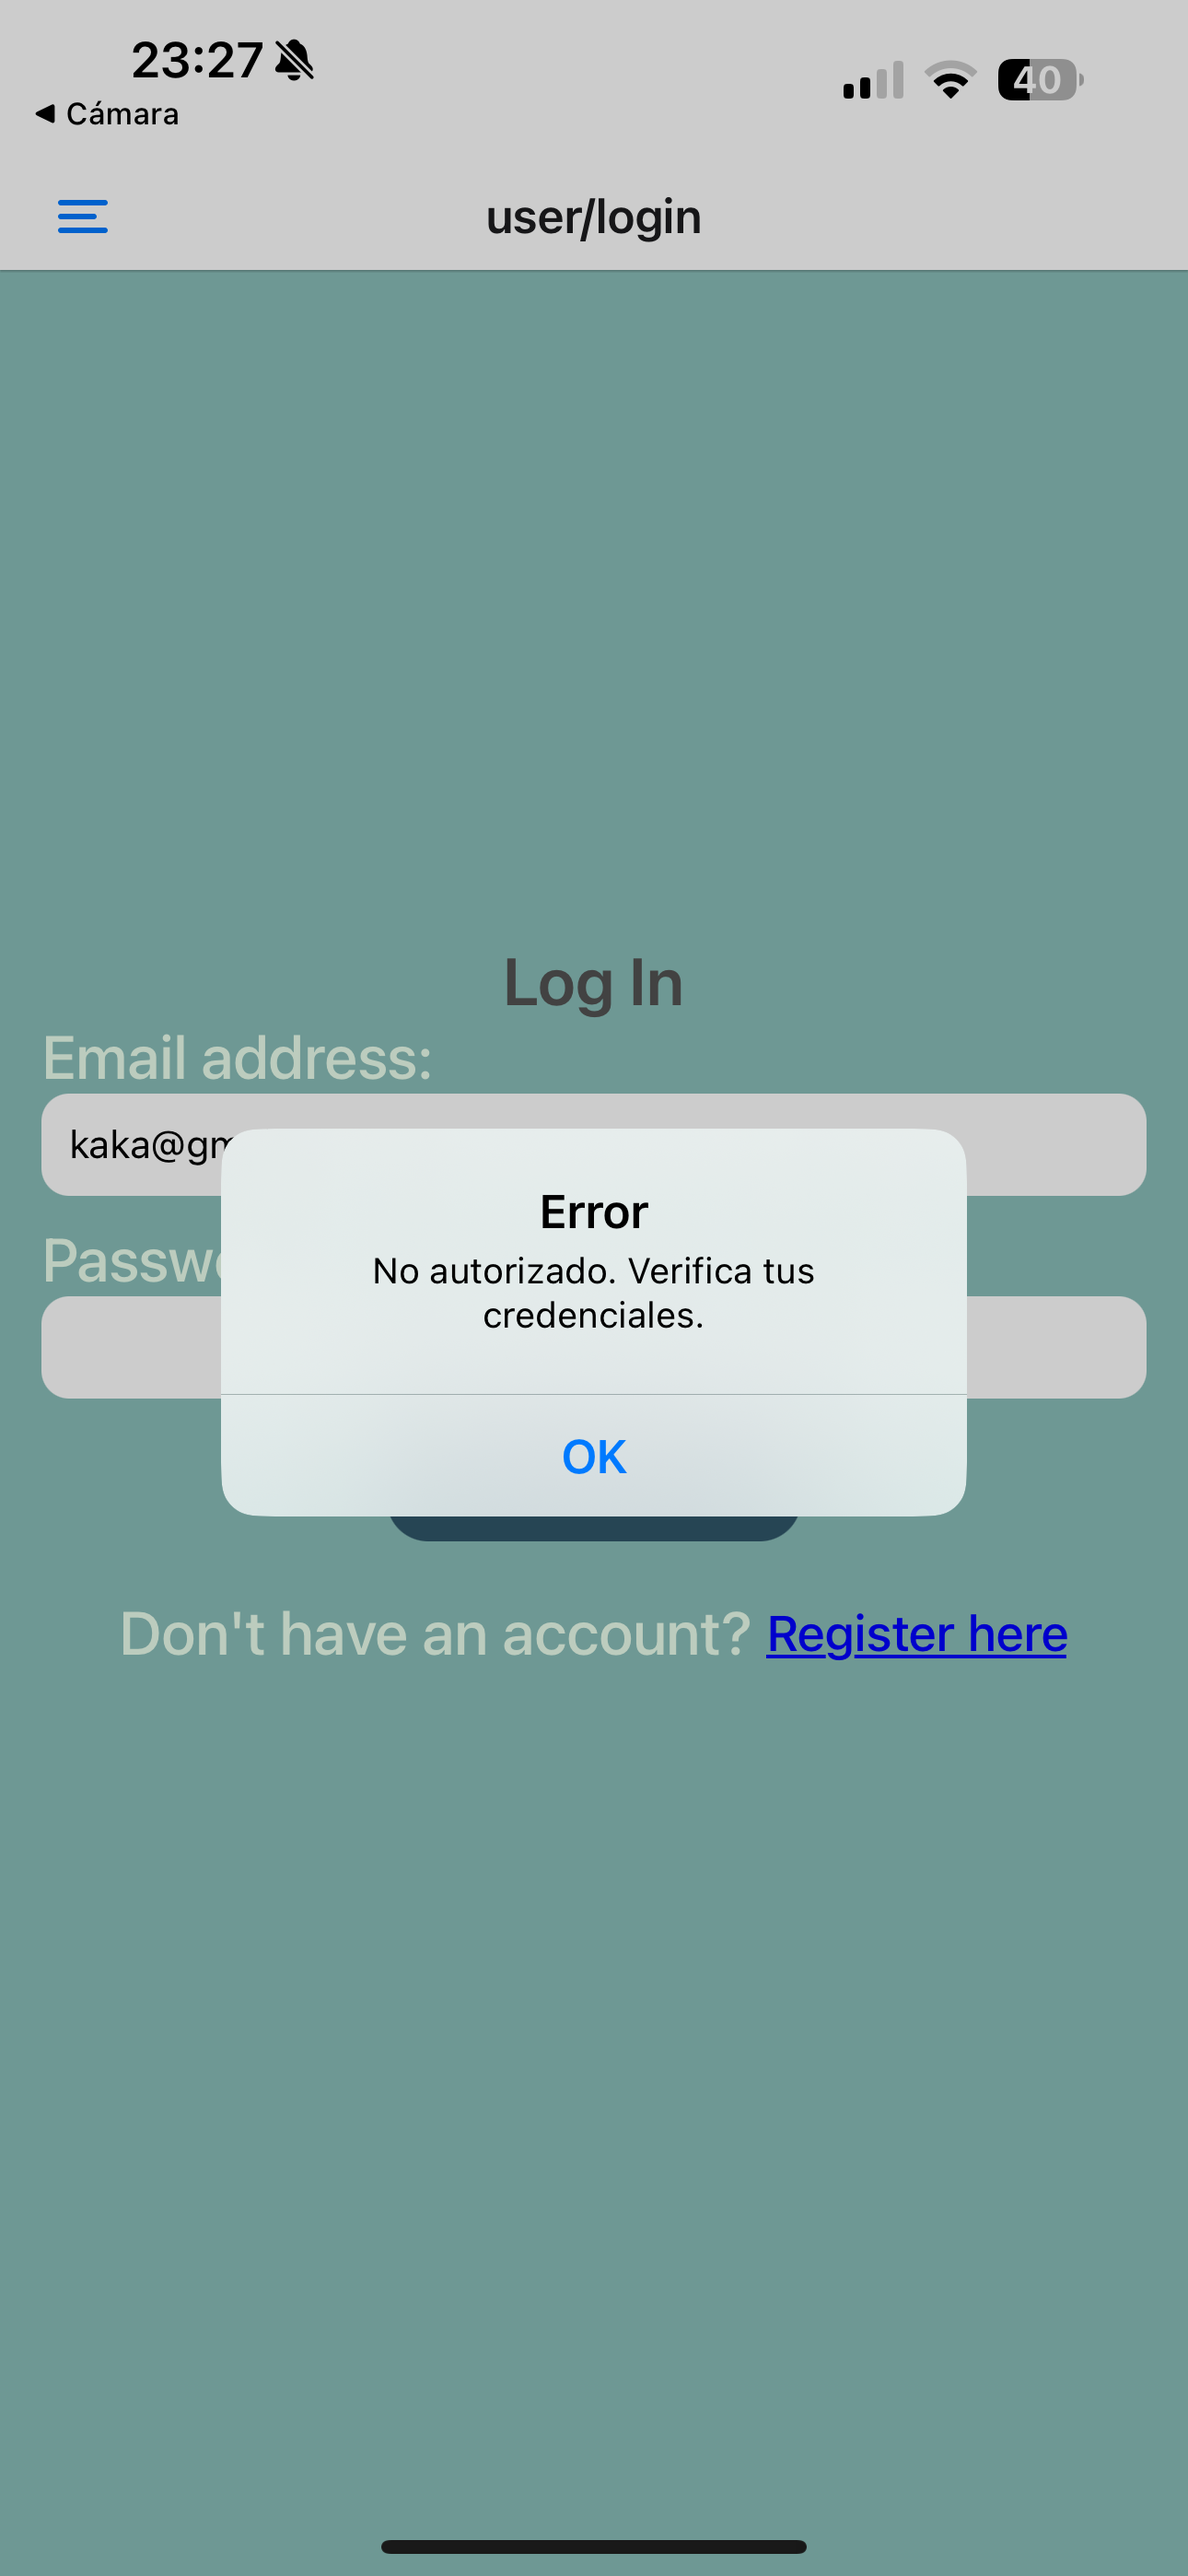
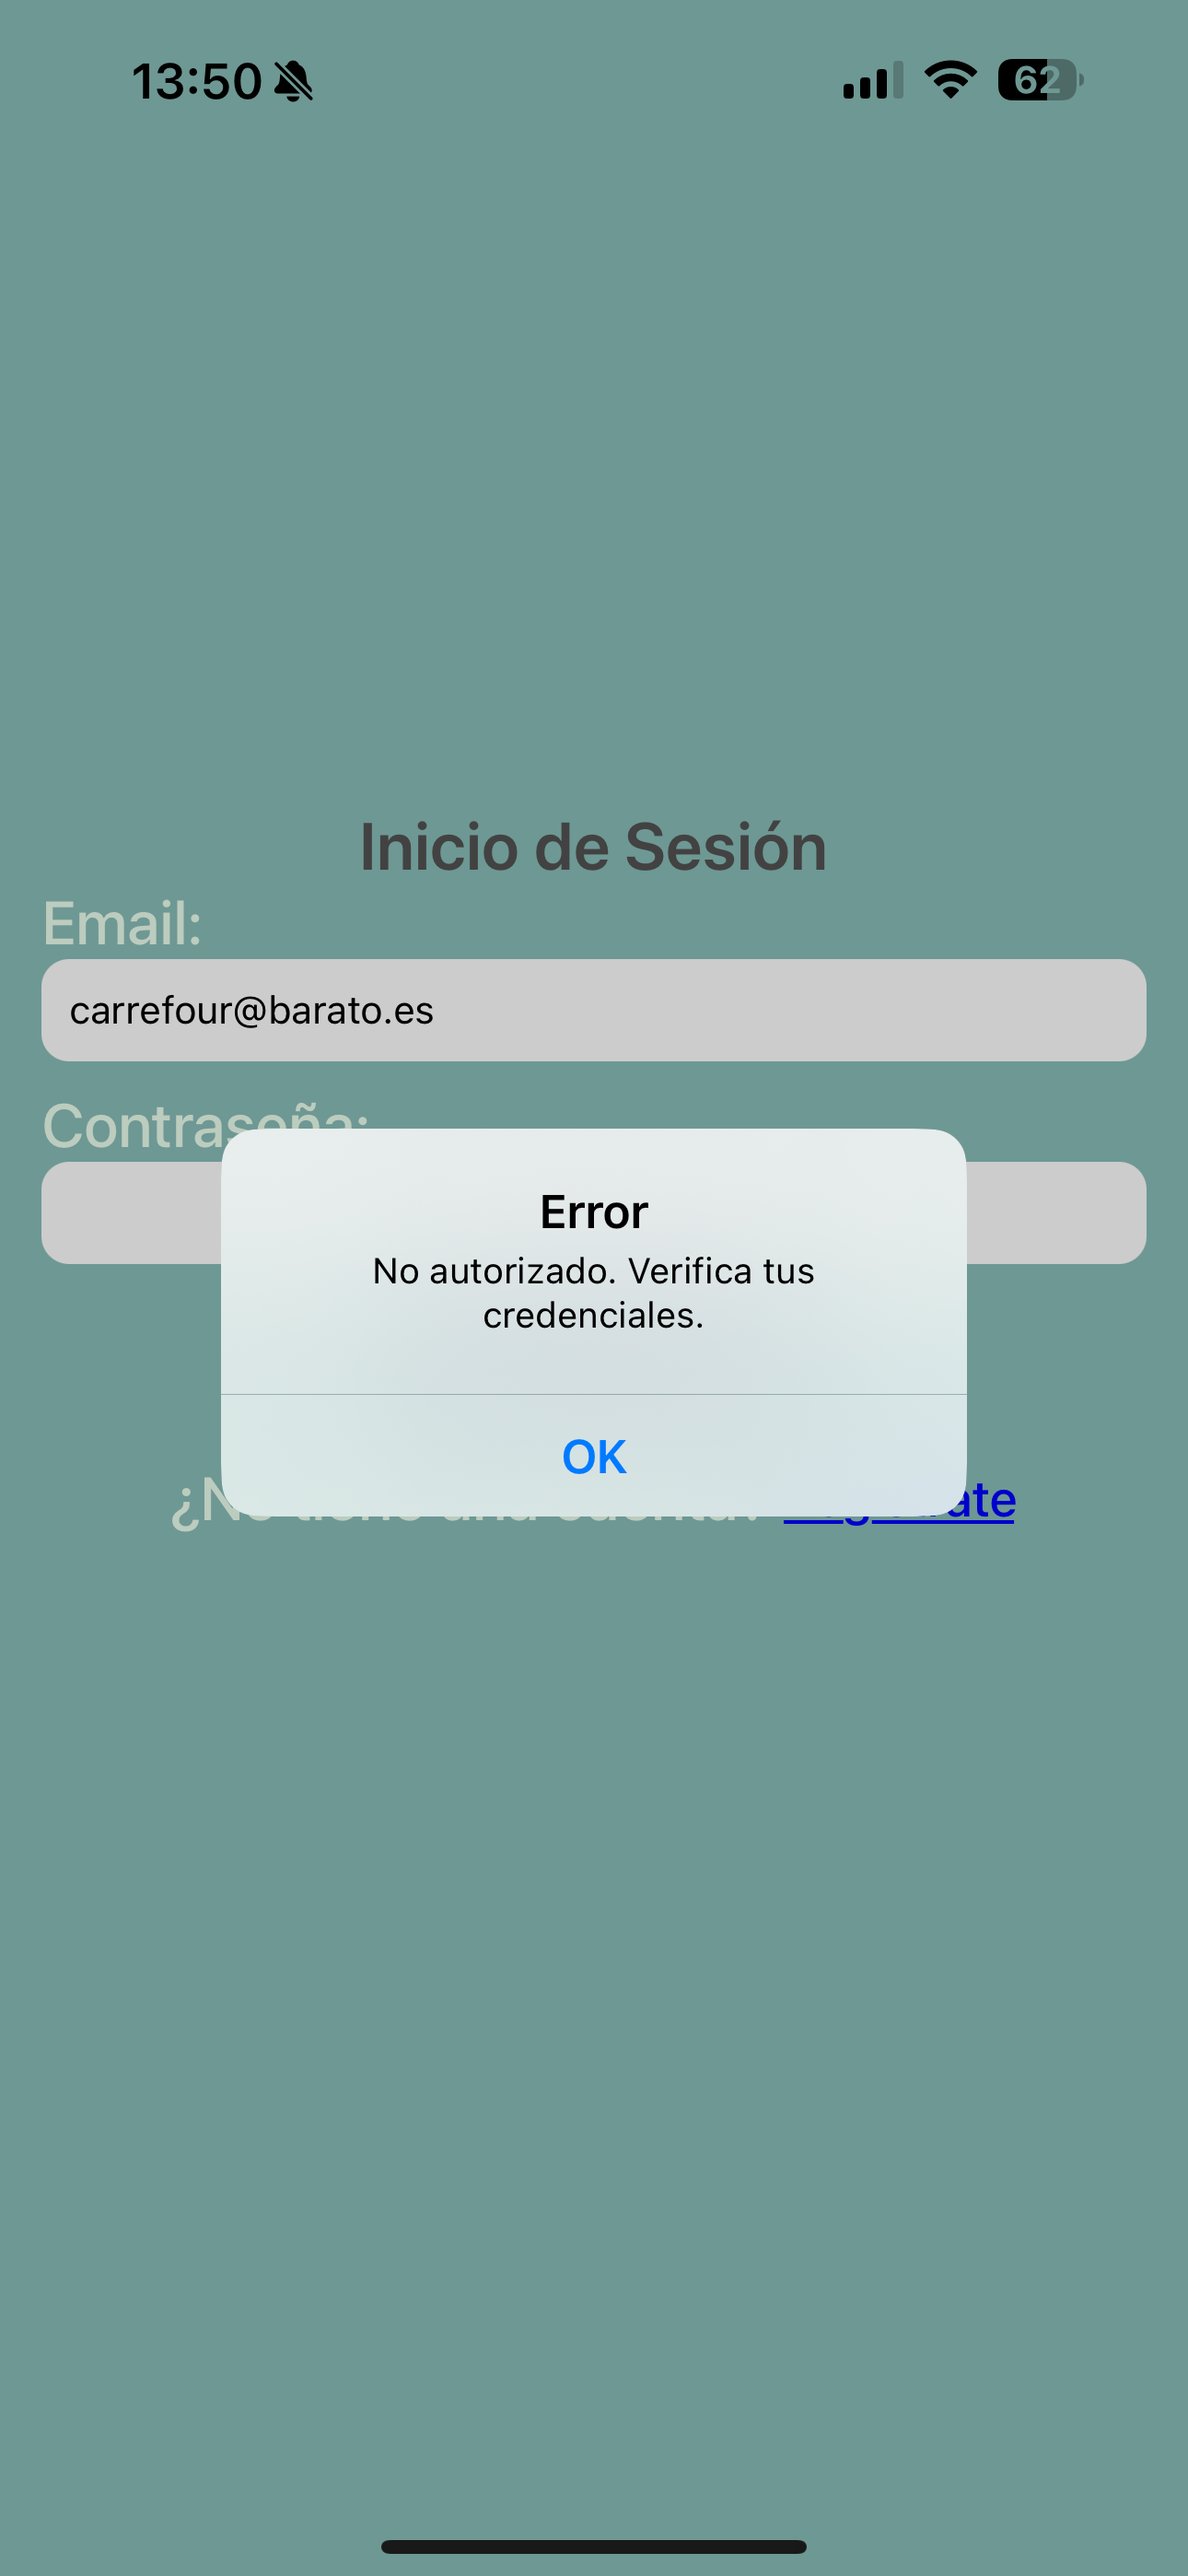
docs(userlogin): update screenshots

diff --git a/docs/userlogin/02-login.md b/docs/userlogin/02-login.md
@@ -2,7 +2,7 @@
 
 # Pantalla de Inicio de Sesión
 
-![Pantalla de Login](../images/userlogin/02-doc/login.png)
+![Pantalla de Login](../images/userlogin/02-doc/login.PNG)
 
 ### Requisitos Implementados
 
@@ -33,11 +33,11 @@
 
 #### Login Fallido
 
-![Login Fallido](../images/userlogin/02-doc/failed_login.png)
+![Login Fallido](../images/userlogin/02-doc/failed_login.PNG)
 
 #### Login Exitoso
 
-![Login Exitoso](../images/userlogin/02-doc/succesful_login.png)
+![Login Exitoso](../images/userlogin/02-doc/succesful_login.jpg)
 
 ### Ficheros Relacionados
 
